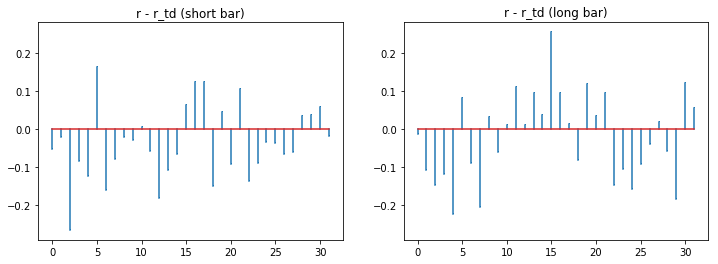
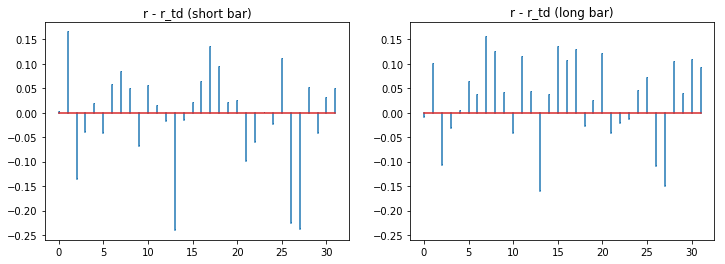
update readme

diff --git a/model.py b/model.py
@@ -4,9 +4,8 @@ import os
 
 
 class Model:
-    def __init__(self, iteration=30, use_prior=True):
+    def __init__(self, iteration=30):
         self.iteration = iteration
-        self.use_prior = use_prior
         
         self.k1      = 0.0005 # Learning rate for r
         self.k2_init = 0.005  # Initial learning rate for U
@@ -51,9 +50,7 @@ class Model:
                 error_td = r_td - r
                     
                 dr = (self.k1/self.sigma_sq) * U.T.dot(error) + \
-                     (self.k1/self.sigma_sq_td) * error_td
-                if self.use_prior:
-                    dr -= self.k1 * self.alpha1 * r
+                     (self.k1/self.sigma_sq_td) * error_td - self.k1 * self.alpha1 * r
                 if training:
                     dU = (self.k2/self.sigma_sq) * np.outer(error, r) \
                          - self.k2 * self.lambd1 * U
@@ -63,9 +60,8 @@ class Model:
                 error_tds[32*j:32*(j+1)] = error_td
 
             # Level2 update
-            drh = (self.k1*self.level2_lr_scale / self.sigma_sq_td) * self.Uh.T.dot(-error_tds)
-            if self.use_prior:
-                drh -= self.k1*self.level2_lr_scale * self.alpha2 * rh
+            drh = (self.k1*self.level2_lr_scale / self.sigma_sq_td) * self.Uh.T.dot(-error_tds) \
+                  - self.k1*self.level2_lr_scale * self.alpha2 * rh
             if training:
                 dUh = (self.k2*self.level2_lr_scale / self.sigma_sq_td) * np.outer(-error_tds, rh) \
                       - self.k2*self.level2_lr_scale * self.lambd2 * self.Uh

diff --git a/dataset.py b/dataset.py
@@ -4,8 +4,8 @@ import cv2
 
 
 class Dataset:
-    def __init__(self, scale=10.0, shuffle=False):
-        self.load_images(scale)
+    def __init__(self, scale=10.0, shuffle=False, use_rao=True):
+        self.load_images(scale, use_rao)
 
         if shuffle:
             indices = np.random.permutation(len(self.patches))
@@ -13,9 +13,14 @@ class Dataset:
         
         self.mask = self.create_gauss_mask()
 
-    def load_images(self, scale):
+    def load_images(self, scale, use_rao):
         images = []
-        dir_name = "images_org"
+
+        if use_rao:
+            # Use images from the paper
+            dir_name = "images_rao"
+        else:
+            dir_name = "images_org"
         
         for i in range(5):
             image = cv2.imread("data/{}/image{}.png".format(dir_name, i))

diff --git a/dataset_test.py b/dataset_test.py
@@ -7,8 +7,7 @@ from dataset import Dataset
 class DatasetTest(unittest.TestCase):
     def test_init(self):
         dataset = Dataset(scale=10.0, shuffle=True)
-        #patch_size = 2375
-        patch_size = 3040
+        patch_size = 2375
         self.assertEqual(dataset.patches.shape, (patch_size,16,26))
 
         images = dataset.get_images(0)

diff --git a/main.py b/main.py
@@ -9,7 +9,7 @@ from model import Model
 
 def main():
     dataset = Dataset(scale=1.0, shuffle=False)
-    model = Model(use_prior=True)
+    model = Model()
     model.train(dataset)
 
     model.save("saved")

diff --git a/README.md b/README.md
@@ -1,30 +1,29 @@
 # Predictive Coding
 
-A third-party reimplementation of the paper: *"Predictive Coding in the Visual Cortex: a Functional Interpretation of Some Extra-classical Receptive-field Effects"* by Rajesh P. N. Rao and Dana H. Ballard
+A third-party reimplementation of the paper: ["Predictive Coding in the Visual Cortex: a Functional Interpretation of Some Extra-classical Receptive-field Effects"](https://www.researchgate.net/publication/13103385_Predictive_Coding_in_the_Visual_Cortex_a_Functional_Interpretation_of_Some_Extra-classical_Receptive-field_Effects) by Rajesh P. N. Rao and Dana H. Ballard
 
-[https://www.researchgate.net/publication/13103385_Predictive_Coding_in_the_Visual_Cortex_a_Functional_Interpretation_of_Some_Extra-classical_Receptive-field_Effects)
+
 
 ## Results
-
 
 
 ### Network weights
 
 #### Level1
 
-![](docs/images/u1_00.png)![](docs/images/u1_04.png)![](docs/images/u1_07.png)![](docs/images/u1_12.png)![](docs/images/u1_17.png)![](docs/images/u1_21.png)
+![](docs/images/u1_01.png)![](docs/images/u1_03.png)![](docs/images/u1_11.png)![](docs/images/u1_17.png)![](docs/images/u1_26.png)![](docs/images/u1_27.png)
 
 
 #### Level2
-![](docs/images/u2_001.png)![](docs/images/u2_009.png)![](docs/images/u2_015.png)![](docs/images/u2_036.png)![](docs/images/u2_080.png)![](docs/images/u2_122.png)
+![](docs/images/u2_004.png)![](docs/images/u2_007.png)![](docs/images/u2_016.png)![](docs/images/u2_023.png)![](docs/images/u2_034.png)![](docs/images/u2_054.png)
 
 
 
 ### End stopping
 
-Visualing the prediction errors (r - r^td)at the center level1 module.
+Visualization of the prediction errors (r - r^td) at the center level1 module.
 
-The prediction errors for the long bar should be smaller, but it is not smaller compared with the original paper's result.
+The prediction errors for the long bar should be much more smaller, they are not smaller compared with the original paper's result.
 
 
 
